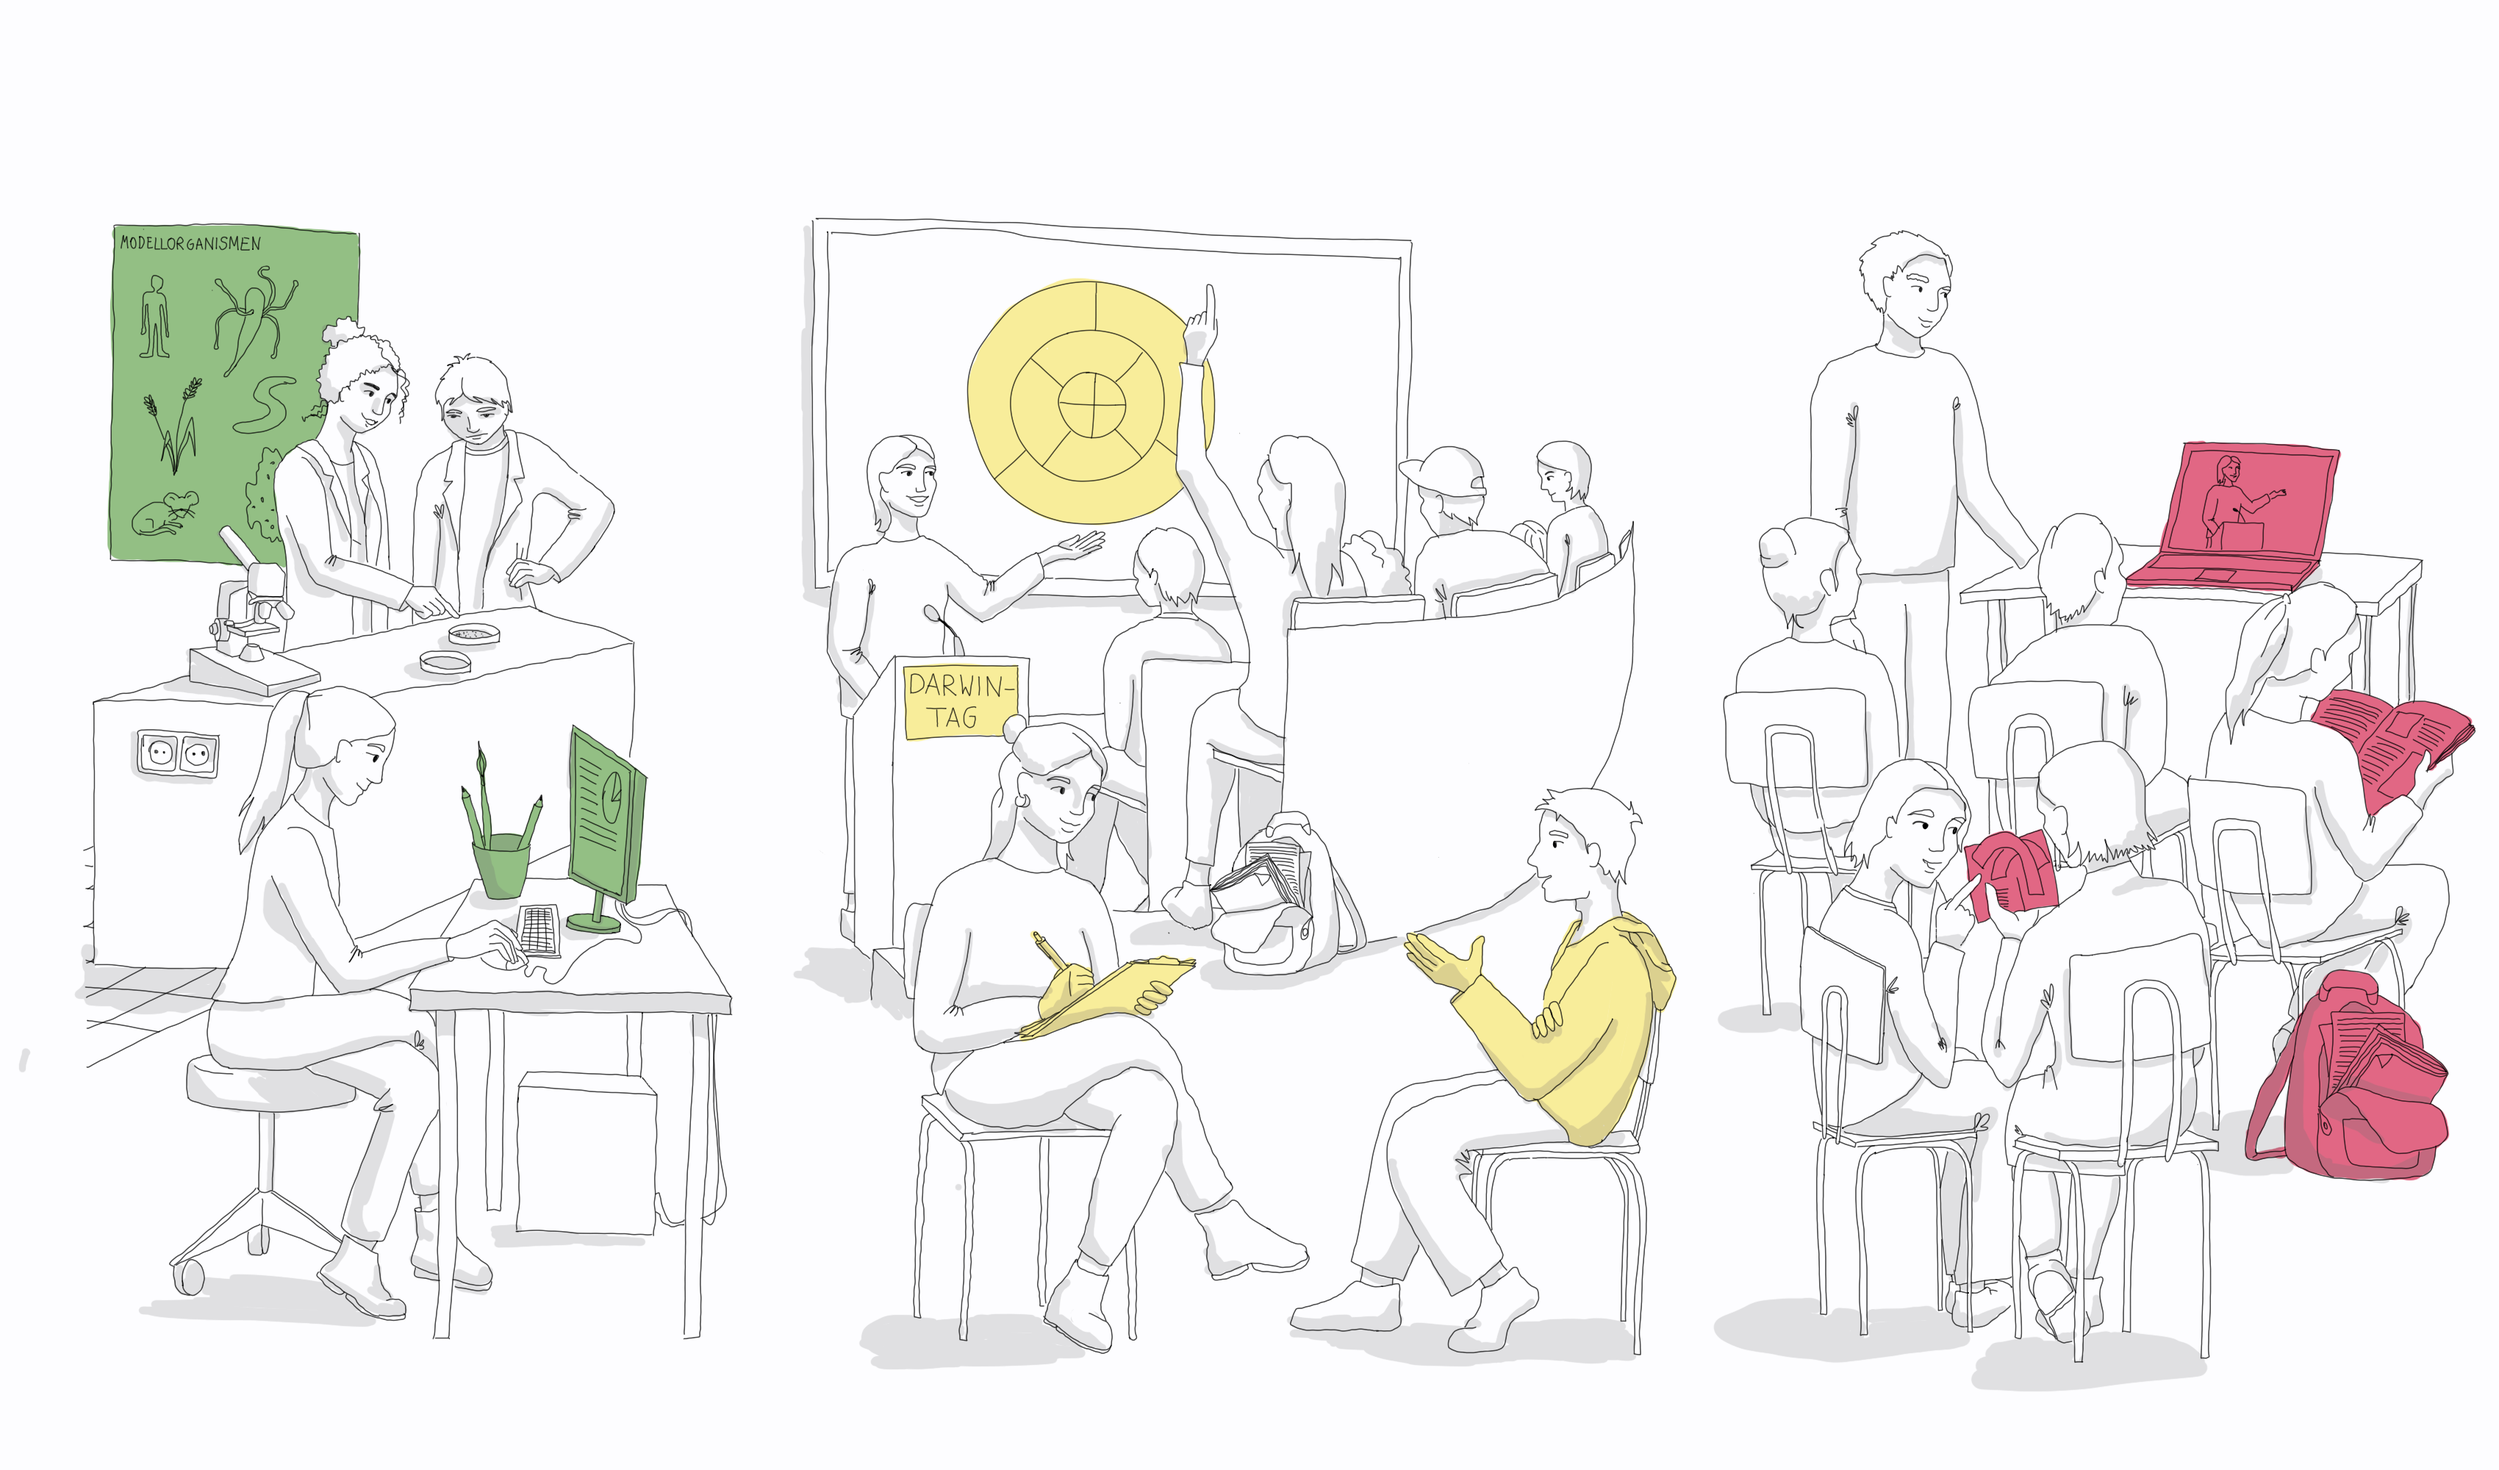
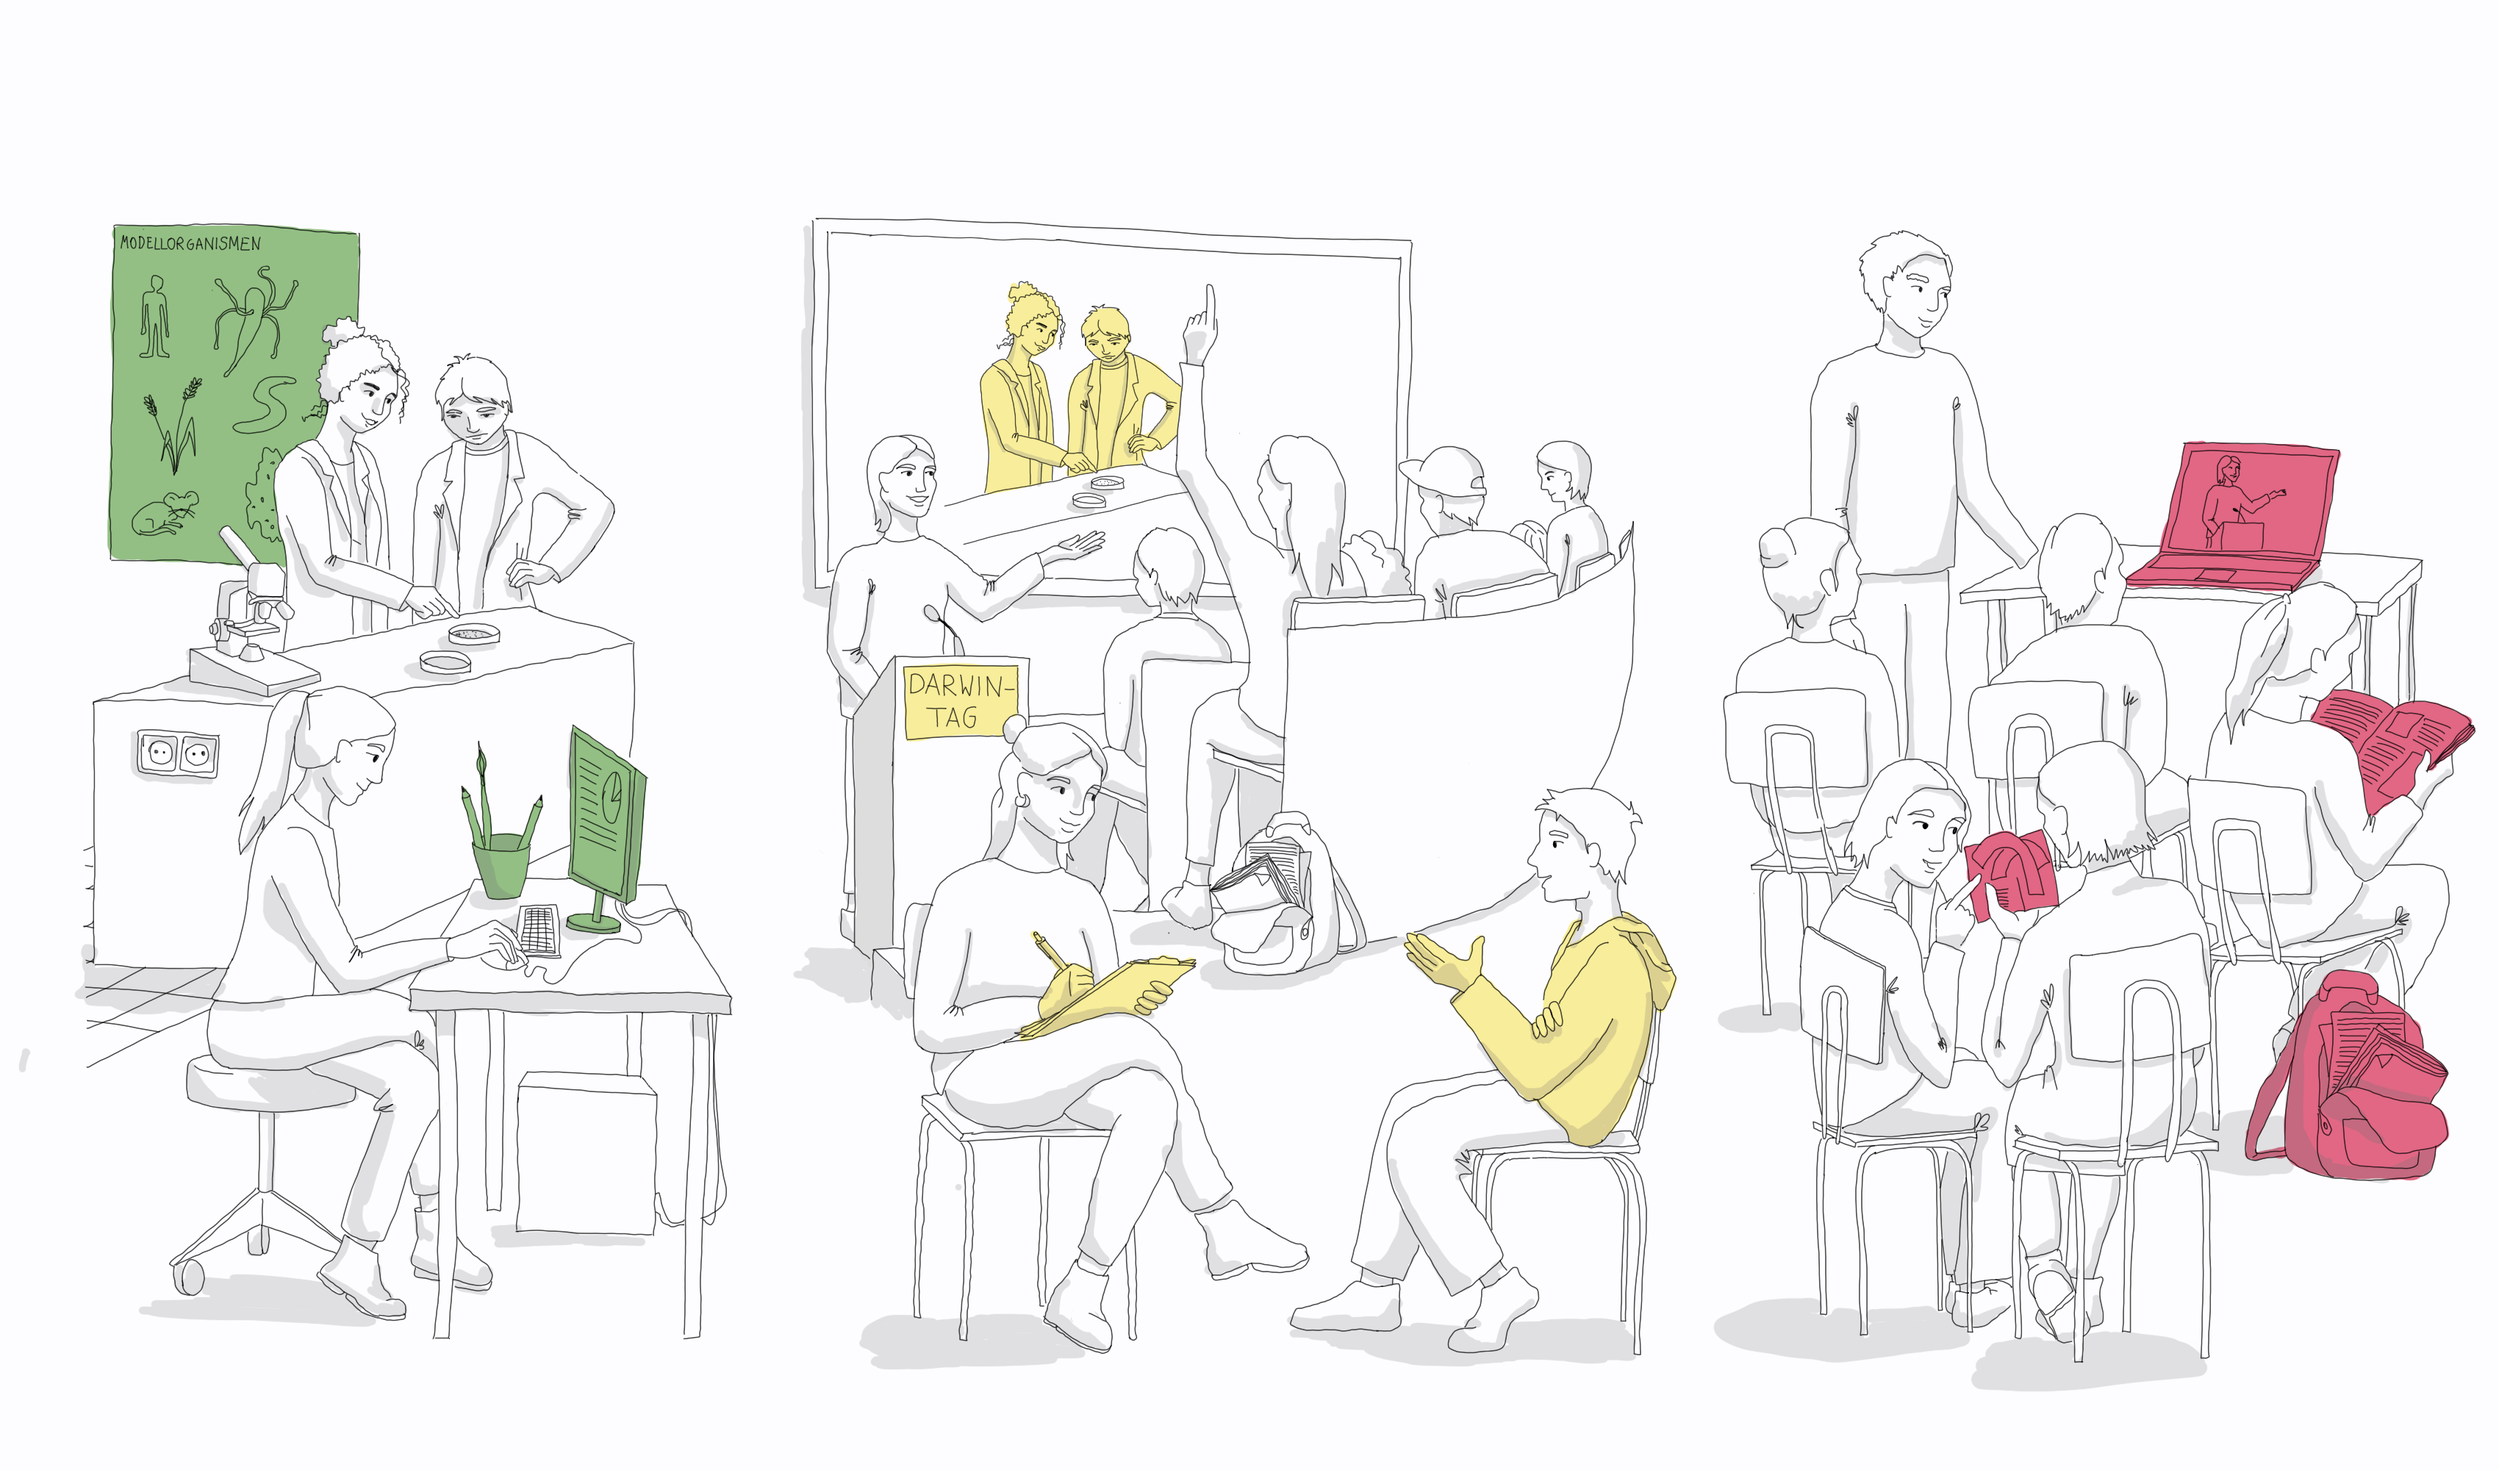
new pictures

Changed region(s): [[0.3741, 0.186, 0.4988, 0.372], [0.3429, 0.465, 0.3741, 0.651]]

diff --git a/index.html b/index.html
@@ -125,7 +125,7 @@
             <a class="linktext" href="media/probe.pdf">Infos zum Darwintag</a>
         </div>
         <div class="material-einzeln">
-            <img class="vorschaubild" src="media/grafik.png" alt="">
+            <img class="vorschaubild" src="media/forschungsarbeit.png" alt="">
             <a class="linktext" href="media/probe.pdf">Grafiken</a>
         </div>
         <div class="material-einzeln">
